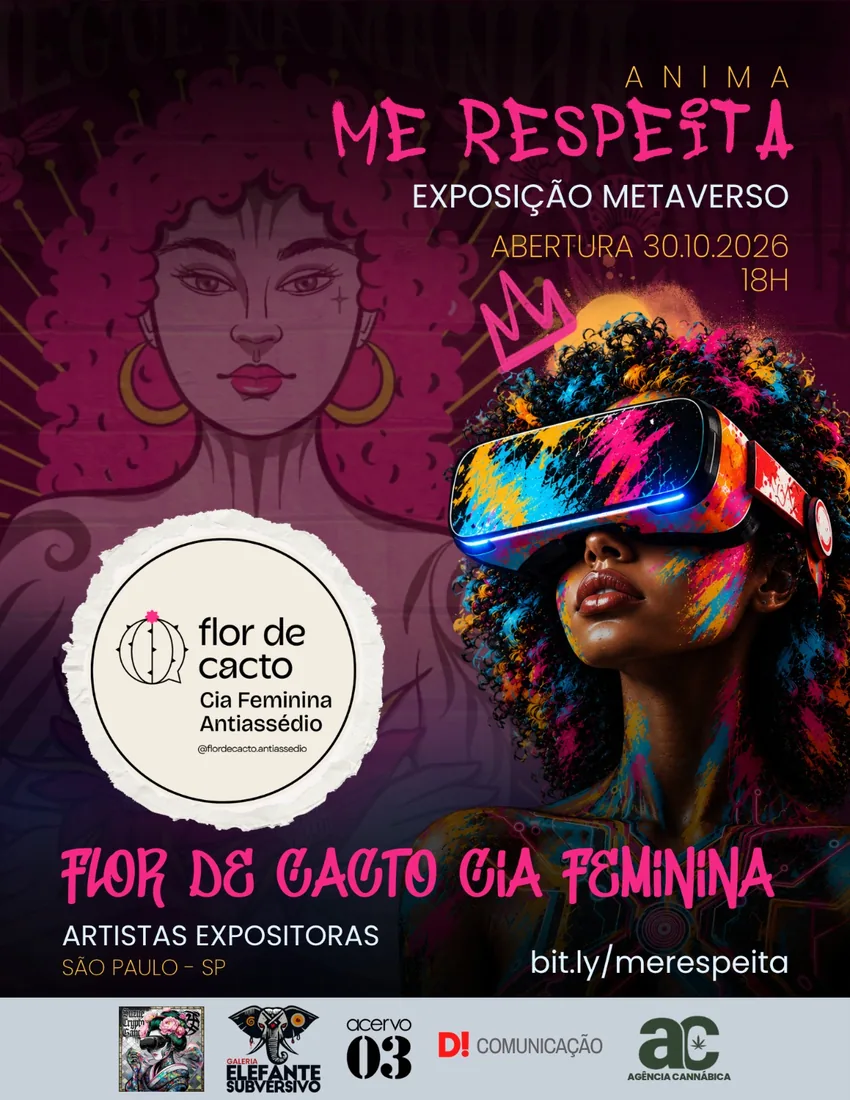
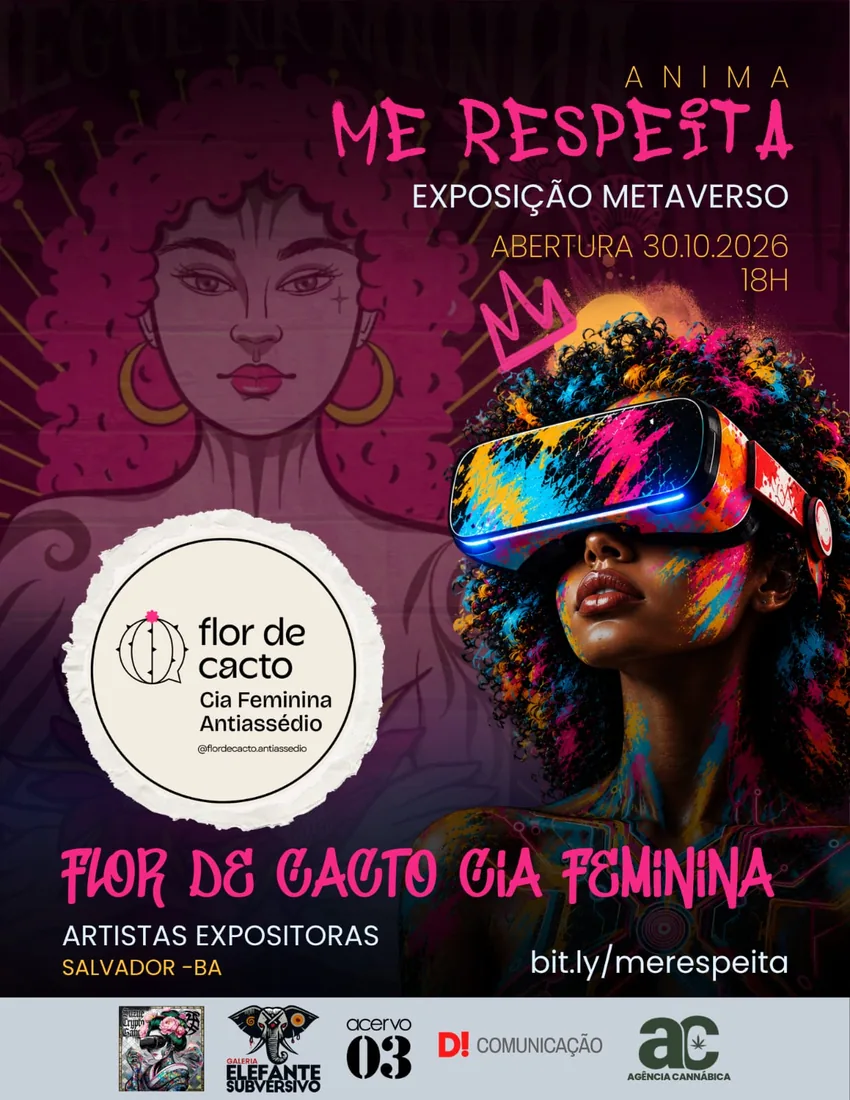
correção flor-de-cacto

diff --git a/sw.js b/sw.js
@@ -1,6 +1,6 @@
 // Service worker: casca do app em cache (rede primeiro) e mídia em cache sob demanda.
 // Ao mudar index/styles/app/data, troque a versão para forçar a atualização.
-const VERSAO = "me-respeita-v3";
+const VERSAO = "me-respeita-v4";
 const CASCA = ["/", "/styles.css", "/app.js", "/data.js", "/manifest.webmanifest", "/img/hero.webp", "/img/icone-192.png"];
 
 self.addEventListener("install", (e) => {

diff --git a/data.js b/data.js
@@ -76,7 +76,7 @@ const ARTISTAS = [
     slug: "flor-de-cacto",
     nome: "Flor de Cacto",
     nomeCivil: "Cia Feminina Antiassédio",
-    cidade: "São Paulo – SP",
+    cidade: "Salvador – BA",
     coletivo: true,
     links: [{ rotulo: "@flordecacto.antiassedio", url: "https://instagram.com/flordecacto.antiassedio" }],
     bio: [
